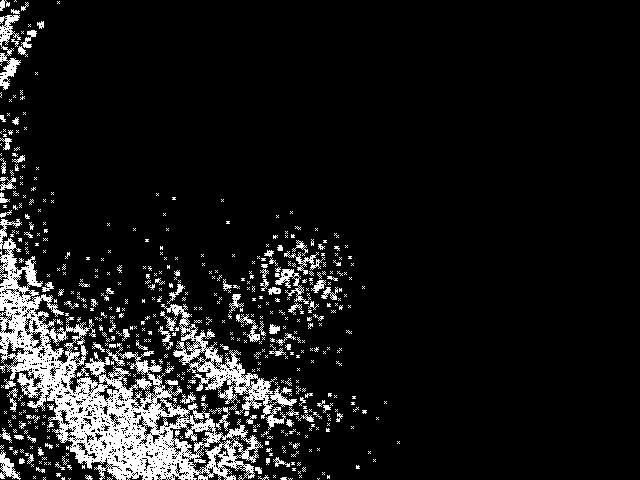
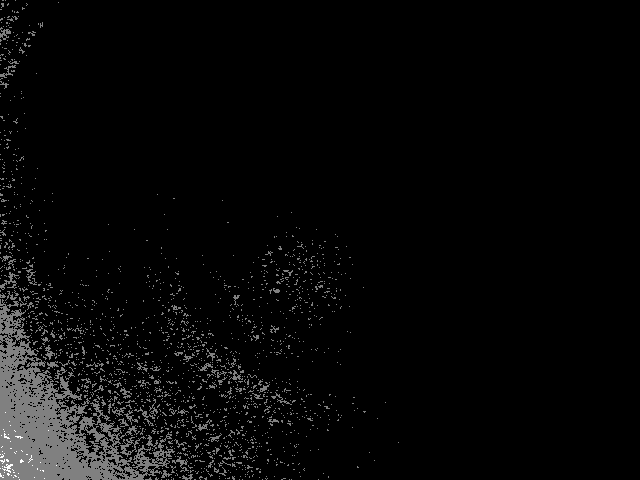
Code verbesserung

diff --git a/Versuch2/aufgabe1.py b/Versuch2/aufgabe1.py
@@ -80,9 +80,7 @@ def readDunkelbild():
     # Bilder einlesen:
     for n in range(10):
         # Dunkelbilder einlesen und zu graubildern machen
-        img = cv2.imread("media/dunkelbilder/dunkelbild_" + str(n) + ".png", cv2.IMREAD_GRAYSCALE)
-        # Dunkelbilderwerte in double umwandeln und in darkArray speichern.
-        darkArray.append(np.float32(img))
+        darkArray.append(np.float32(cv2.imread("media/dunkelbilder/dunkelbild_" + str(n) + ".png", cv2.IMREAD_GRAYSCALE)))
 
     # pixelweise Mittelwert berechnen:
     meanDunkelBild = np.mean(darkArray, axis=0)
@@ -90,18 +88,10 @@ def readDunkelbild():
     cv2.imwrite(dunkelMean, meanDunkelBild)
 
     # Kontrast maximieren:
-    v = cv2.imread(dunkelMean)
-    s = cv2.cvtColor(v, cv2.COLOR_BGR2GRAY)
-    s = cv2.Laplacian(s, cv2.CV_16S, ksize=3)
-    s = cv2.convertScaleAbs(s, alpha=255, beta=0)
-    # cv2.imshow('Dunkel Kontrast maximiert', s)
+    v = np.float32(cv2.imread(dunkelMean))
+    v = v - np.min(v)
+    s = v * (255 / np.max(v))
     cv2.imwrite("media/dunkelContrastMax.png", s)
-
-
-def kalibrierungDunkel(img):
-    # Ziehe Dunkelbild von zu korrigierenden Bild img ab.
-    dunkel = cv2.imread(dunkelMean, cv2.IMREAD_GRAYSCALE)
-    cv2.imwrite("media/dunkelSubtrahiert.png", np.subtract(img, dunkel))
 
 
 #
@@ -118,14 +108,13 @@ def readWeissbild():
     cv2.imwrite(weissMean, meanWeissBild)
 
     # Kontrast maximieren:
-    v = cv2.imread(weissMean)
-    s = cv2.cvtColor(v, cv2.COLOR_BGR2GRAY)
-    s = cv2.Laplacian(s, cv2.CV_16S, ksize=3)
-    s = cv2.convertScaleAbs(s, alpha=255, beta=0)
-    # cv2.imshow('Weiss Kontrast maximiert', s)
+    v = np.float32(cv2.imread(weissMean))
+    v = v - np.min(v)
+    s = v * (255 / np.max(v))
+
     cv2.imwrite("media/weissContrastMax.png", s)
 
-    meanDunkelBild = cv2.imread(dunkelMean, cv2.IMREAD_GRAYSCALE)
+    meanDunkelBild = np.float32(cv2.imread(dunkelMean, cv2.IMREAD_GRAYSCALE))
     imageSubtracted = meanWeissBild - meanDunkelBild
     cv2.imwrite('media/weissBildMinusDunkelbild.png', imageSubtracted)
 
@@ -139,15 +128,16 @@ def kalibrierung(img):
 
     # Weisbild Teil
     # Weisbild einlesen:
-    weisBild = np.float32(cv2.imread(weissMean, cv2.IMREAD_GRAYSCALE))
+    weissBild = np.float32(cv2.imread(weissMean, cv2.IMREAD_GRAYSCALE))
 
-    norm_image = cv2.normalize(weisBild, None, alpha=0, beta=1, norm_type=cv2.NORM_MINMAX, dtype=cv2.CV_32F)
+    mittelwertWeissbild = np.mean(weissBild)
+    norm_image = weissBild / mittelwertWeissbild
+
     # cv2.imshow('Weiss normiert', norm_image)
     cv2.imwrite("media/weiss_normiert.png", norm_image)
 
     # Dividiere korrigiertes bild durch  WeißbildNorm
     imgKor = imgKor / norm_image
-    # cv2.imshow('Weiss divide',imgKor)
     cv2.imwrite("media/grauWertKorrektur.png", imgKor)
 
 
